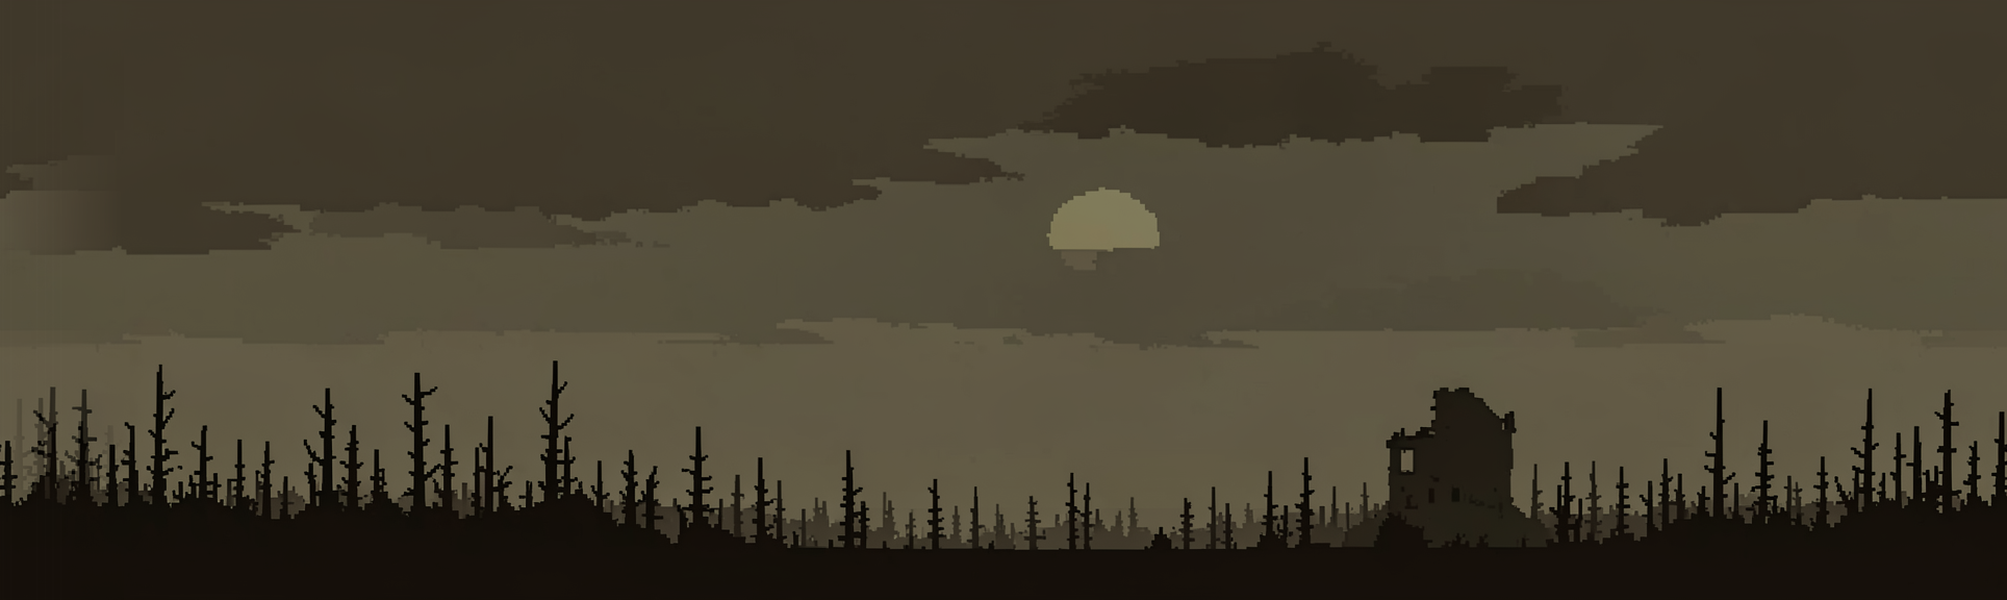
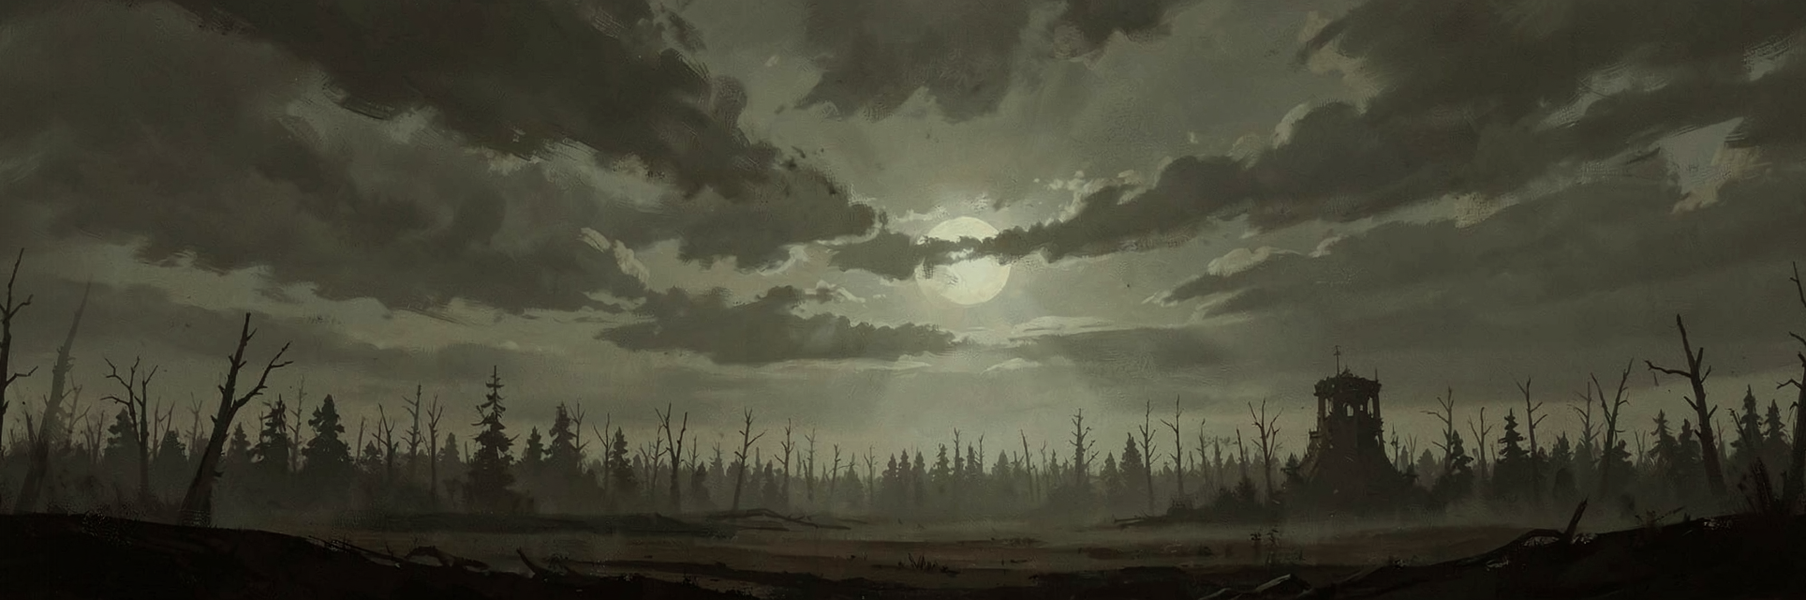
Močál přegenerovaný v malovaném stylu temné fantasy (bez pixelů), velké stromy v popředí pozadí
Claude-Session: https://claude.ai/code/session_015jCRZS7ASg3pqxo763VEwg

diff --git a/tools/build_bg.py b/tools/build_bg.py
@@ -25,7 +25,7 @@ GRIM = ["14100e", "1e1814", "29211b", "352a22", "42352a", "514133", "62503f", "7
         "642a22", "7e3a2a", "8c7f68", "a89a7e", "4a4a52", "686470",
         "1f2a1c", "2c3a26", "3c4c30", "4e5e3a", "62704a", "7a845a"]  # tlumené zelené (voda, rákos)
 # výřez země z obrázku (zlomky šířky/výšky), aby nebyly vidět kořeny na okrajích
-GROUND_CROP = {"swamp": (0.30, 0.18, 0.74, 1.0)}
+GROUND_CROP = {"swamp": (0.0, 0.47, 1.0, 1.0)}
 
 
 BAYER = np.array([[0, 8, 2, 10], [12, 4, 14, 6], [3, 11, 1, 9], [15, 7, 13, 5]]) / 16.0 - 0.5
@@ -154,7 +154,7 @@ def main(biome):
     mpath = f"{src}/grim_{biome}_marsh.png"
     if os.path.exists(mpath):
         mm = Image.open(mpath).convert("RGBA")
-        mm = mm.crop((0, int(mm.height * 0.36), mm.width, mm.height))
+        mm = mm.crop((0, int(mm.height * 0.42), mm.width, mm.height))
         ma = np.asarray(mm).astype(float)
         ma[..., :3] *= 0.85
         marsh = retro(Image.fromarray(ma.astype(np.uint8), "RGBA"), (round(ma.shape[1] * 40 / ma.shape[0]), 40))
